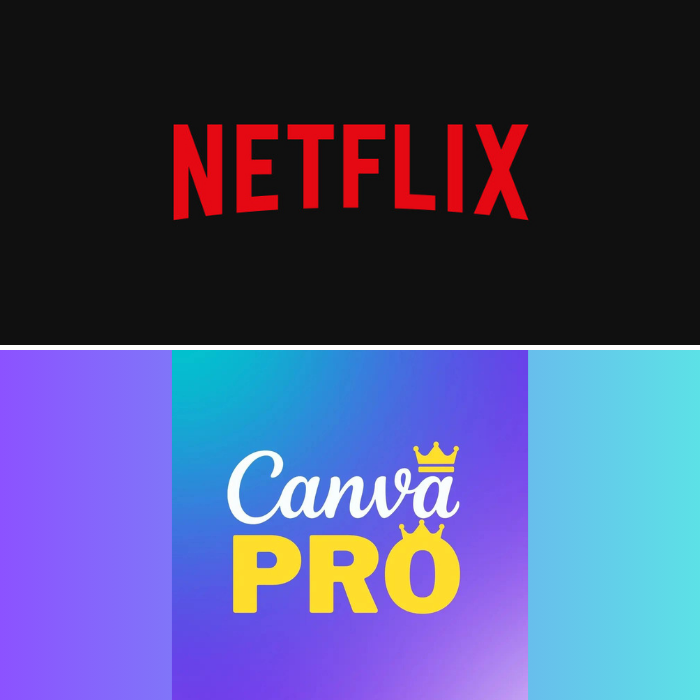
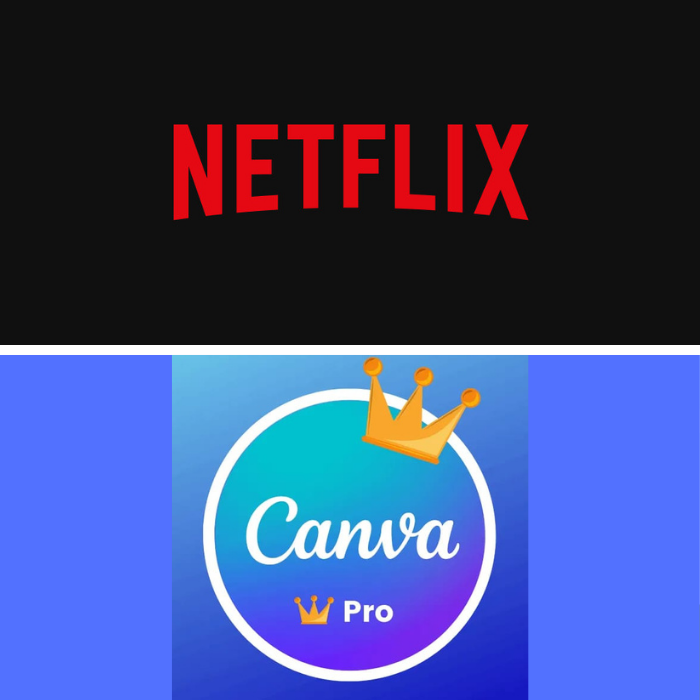
styles changes

diff --git a/src/components/Socials/index.tsx b/src/components/Socials/index.tsx
@@ -1,0 +1,66 @@
+import { FontAwesomeIcon } from '@fortawesome/react-fontawesome';
+import { faSpotify, faFacebook, faWhatsapp, faInstagram } from '@fortawesome/free-brands-svg-icons';
+
+type SocialsProps = {
+	className?: string;
+	withBorder?: boolean;
+	size?: string;
+};
+
+const socials = [
+	{
+		name: 'Facebook',
+		url: 'https://www.facebook.com/profile.php?id=100086433350888&mibextid=ZbWKwL',
+		icon: faFacebook,
+		parentClass: 'border-blue-500 hover:border-white hover:scale-110',
+		itemClass: 'hover:text-blue-500',
+	},
+	{
+		name: 'Instagram',
+		url: 'https://www.instagram.com/',
+		icon: faInstagram,
+		parentClass: 'border-pink-500 hover:border-white hover:scale-110',
+		itemClass: 'hover:text-pink-500',
+	},
+	{
+		name: 'WhatsApp',
+		// url: 'https://wa.me/50588608870',
+		url: 'https://wa.me/50589923583',
+		text: 'Hola,%0A%0AHe estado revisando su catálogo de servicios en la web y estoy interesado en obtener más información sobre algunos de ellos. ¿Podrían proporcionarme detalles adicionales o aclarar algunas dudas que tengo?',
+		icon: faWhatsapp,
+		parentClass: 'border-green-500 hover:border-white hover:scale-110',
+		itemClass: 'hover:text-green-500',
+	},
+];
+
+export default function Socials({ className, withBorder = true, size }: SocialsProps) {
+	return (
+		<ul className={`flex gap-x-4 items-center justify-center ${className}`}>
+			{socials.map((social) => (
+				<li key={social.name}>
+					{social.name === 'WhatsApp' ? (
+						<a
+							href={`${social.url}?text=${social.text}`}
+							target='_blank'
+							rel='noreferrer noopener'
+							className={`${social.parentClass} ${
+								withBorder ? 'border-2 rounded-full p-1' : ''
+							} flex items-center justify-center `}>
+							<FontAwesomeIcon icon={social.icon} className={`${size ? size : 'size-6'} ${social.itemClass}`} />
+						</a>
+					) : (
+						<a
+							href={social.url}
+							target='_blank'
+							rel='noreferrer noopener'
+							className={`${social.parentClass} ${
+								withBorder ? 'border-2 rounded-full p-1' : ''
+							} flex items-center justify-center `}>
+							<FontAwesomeIcon icon={social.icon} className={`${size ? size : 'size-6'} ${social.itemClass}`} />
+						</a>
+					)}
+				</li>
+			))}
+		</ul>
+	);
+}

diff --git a/app/streaming/[service]/page.tsx b/app/streaming/[service]/page.tsx
@@ -43,23 +43,25 @@ export default function CardServiceProps({ params }: CardServiceProps) {
 	};
 
 	const renderPricing = (
-		<div className='flex gap-x-12 items-center justify-center text-amber-200 font-semibold'>
-			<p className='text-3xl underline underline-offset-8 leading-[1.5] text-center'>
-				Córdobas: <span className='text-green-600 underline underline-offset-8'>C$ {card.price}</span>
-			</p>
-			<p className='text-3xl underline underline-offset-8 leading-[1.5] text-center'>
-				Dólares:{' '}
-				<span className='text-green-600 underline underline-offset-8'>
-					${(Number(card.price) / dollarValue).toFixed(2)}
-				</span>
-			</p>
+		<div className='flex flex-col items-center relative justify-center border border-white/80 w-full sm:w-1/2 mx-auto py-2.5 px-3 rounded-md bg-white/5'>
+			<div className='animate-pulse absolute h-full w-full shadow-2xl shadow-amber-400/40'></div>
+			<p className='text-3xl font-bold mb-2 tracking-wide'>Precio</p>
+			<div className='flex gap-x-12 items-center justify-center text-amber-300 font-light'>
+				<p className='text-2xl leading-[1.5] text-center'>
+					Córdobas: <span className='text-gray-200 font-medium block'>C$ {card.price}</span>
+				</p>
+				<p className='text-2xl leading-[1.5] text-center'>
+					Dólares:{' '}
+					<span className='text-gray-200 font-medium block'>${(Number(card.price) / dollarValue).toFixed(2)}</span>
+				</p>
+			</div>
 		</div>
 	);
 
 	const renderInfoIndividual = () => {
 		if (card.category === 'individual' || card.category === 'cuenta completa')
 			return (
-				<div className='flex flex-col gap-y-16'>
+				<div className='flex flex-col gap-y-8 animate-fade-up'>
 					{renderPricing}
 
 					<div>
@@ -79,7 +81,7 @@ export default function CardServiceProps({ params }: CardServiceProps) {
 	const renderInfoDuos = () => {
 		if (card.category === 'duos' || card.category === 'combos')
 			return (
-				<div className='flex flex-col gap-y-16'>
+				<div className='flex flex-col gap-y-16 animate-fade-up'>
 					{renderPricing}
 
 					<div>

diff --git a/app/page.tsx b/app/page.tsx
@@ -11,6 +11,7 @@ import { Card } from '@/src/models';
 import SearchInput from '@/src/components/SearchInput';
 import { useGlobalStore } from '@/src/store/global';
 import FilteredList from '@/src/components/Card/FilteredList';
+import Socials from '@/src/components/Socials';
 
 export default function Home() {
 	const { inputValue, filteredList } = useGlobalStore();
@@ -21,6 +22,8 @@ export default function Home() {
 				<h1 className='text-center mb-10 text-balance text-2xl leading-9 md:text-4xl md:leading-[1.3] lg:text-5xl lg:leading-[1.3] font-bold max-w-[750px] mx-auto text-white/85'>
 					Contrata los mejores servicios de Streaming al mejor precio!
 				</h1>
+
+				<Socials className='mb-10' />
 
 				<MarqueeImages info={HomeInfo.MARQUEE} />
 			</Section>

diff --git a/src/components/Contact/index.tsx b/src/components/Contact/index.tsx
@@ -11,8 +11,8 @@ export default function Contact({ message, className }: ContactProps) {
 			href={`https://wa.me/50588608870?text=${message}`}
 			target='_blank'
 			rel='noreferrer noopener'
-			className={`bg-green-500 hover:bg-green-600 rounded-lg py-2 px-4 border text-center text-sm md:text-base xl:text-xl uppercase font-semibold  transition-colors delay-75 ${className} animate-pulse`}>
-			Adquirir
+			className={`bg-green-500 hover:bg-green-600 rounded-lg py-2 px-4 border text-center text-sm md:text-base xl:text-xl uppercase font-semibold transition-colors${className}`}>
+			Obtener streaming
 		</Link>
 	);
 }

diff --git a/src/components/Card/index.tsx b/src/components/Card/index.tsx
@@ -10,7 +10,7 @@ const CardComponent = ({ item }: { item: Card }) => {
 	const { cardList } = useGlobalStore();
 
 	const renderPricing = (
-		<p className=' text-xl text-amber-500 font-bold flex items-center justify-evenly w-full mb-2'>
+		<p className=' text-xl text-amber-500 font-semibold flex items-center justify-evenly w-full mb-2'>
 			<span className='px-1 rounded-lg bg-black/10 border text-center w-[100px]'>C$ {item.price}</span>-
 			<span className='px-1 rounded-lg bg-black/10 border text-center w-[100px]'>
 				$ {(Number(item.price) / dollarValue).toFixed(2)}

diff --git a/app/layout.tsx b/app/layout.tsx
@@ -5,6 +5,8 @@ import '@fortawesome/fontawesome-svg-core/styles.css';
 import './globals.scss';
 
 import Header from '@/src/components/Header';
+import Head from 'next/head';
+import Footer from '@/src/components/Footer';
 
 const openSans = Open_Sans({ subsets: ['latin'] });
 export const runtime = 'edge';
@@ -25,6 +27,7 @@ export default function RootLayout({
 			<body className={`${openSans.className}bg-gray-950`}>
 				<Header />
 				<main className='main-container'>{children}</main>
+				<Footer />
 			</body>
 		</html>
 	);

diff --git a/src/utils/index.ts b/src/utils/index.ts
@@ -1,6 +1,5 @@
 export function isMobile() {
 	if (typeof window === 'undefined') {
-		// Server-side rendering, return false by default
 		return false;
 	}
 
@@ -14,8 +13,8 @@ export function generateSlug(text: string): string {
 		.replaceAll('+', 'plus')
 		.replaceAll('|', '')
 		.replaceAll('&', 'and')
-		.replaceAll('--', '-')
-		.toLowerCase();
+		.toLowerCase()
+		.replace(/-+/g, '-');
 }
 
-export const dollarValue = 36.4;
+export const dollarValue = 36.6;

diff --git a/src/components/Footer/index.tsx b/src/components/Footer/index.tsx
@@ -1,0 +1,11 @@
+import React from 'react';
+import Socials from '../Socials';
+
+export default function Footer() {
+	return (
+		<footer className='bg-gray-950 text-white text-center py-4'>
+			<p className='mb-3 text-sm'>&copy; {new Date().getFullYear()} Pez Streaming</p>
+			<Socials className='mb-0' withBorder={false} size='size-5' />
+		</footer>
+	);
+}

diff --git a/src/styles/pages/_service.scss b/src/styles/pages/_service.scss
@@ -7,7 +7,7 @@
 	}
 
 	&-title {
-		@apply text-gray-200 font-bold text-[26px] mb-4 leading-[1.3] md:text-6xl text-center text-pretty sm:text-wrap md:mb-10;
+		@apply text-gray-200 font-bold text-[30px] sm:text-[40px] mb-10 leading-[1.3] md:text-6xl text-center text-pretty sm:text-wrap md:mb-10;
 	}
 
 	&-image {

diff --git a/src/styles/components/_tab.scss b/src/styles/components/_tab.scss
@@ -1,6 +1,6 @@
 .tab {
 	&.active {
-		@apply text-sky-500 bg-white/20 rounded-full px-2 transition border border-white/60;
+		@apply text-sky-500 bg-white/20 rounded-full px-2 transition border border-white/60 font-semibold;
 		@apply sm:border-none;
 	}
 }

diff --git a/data/cards.ts b/data/cards.ts
@@ -1398,7 +1398,7 @@ const cards: Card[] = [
 	{
 		id: crypto.randomUUID(),
 		image: {
-			src: '/images/cards/canva.webp',
+			src: '/images/cards/canva.png',
 			alt: 'CANVA PRO',
 		},
 		title: 'CANVA PRO',
